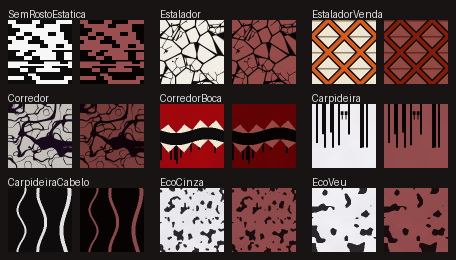
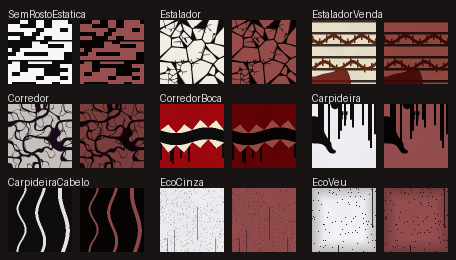
fix: Eco de fantasma claro (não malhado) e venda de atadura (não grade)
Review da prévia: o Eco lia como couro de vaca e a venda como toalha de
piquenique. Eco: base quase branca, salpico pequeno, escorrido fino, borda do
véu escura; teste de claridade (média alta, pouco cinza e pouca área escura)
no lugar do desvio de longe. Venda: faixas horizontais com frestas, dois
arames farpados ferrugem e sangue seco; teste de faixa horizontal. Um gerador
por textura, pra mexer numa não sortear as outras de novo.

diff --git a/scripts/gen_textures.py b/scripts/gen_textures.py
@@ -12,12 +12,12 @@ Saída (mod/42/media/textures/):
   Body/NOM_Estalador.png         256  porcelana quase branca, rachaduras grossas pretas
   Body/NOM_Corredor.png          256  cinza-cinza clara, veias grossas roxo-pretas
   Body/NOM_Carpideira.png        256  muito pálida, escorridos de fuligem, fuligem nos olhos
-  NOM/NOM_EstaladorVenda.png     128  atadura branco-suja, arame ferrugem em X com contorno preto (óculos de esqui)
+  NOM/NOM_EstaladorVenda.png     128  atadura em faixas branco-sujas, dois arames farpados ferrugem, sangue seco (óculos de esqui)
   NOM/NOM_CorredorBoca.png       128  vermelho escuro, rasgo preto com dentes brancos (máscara cirúrgica)
   NOM/NOM_SemRostoEstatica.png   128  chiado de TV em blocos preto/branco e faixas rasgadas (balaclava inteira)
   NOM/NOM_CarpideiraCabelo.png   128  cabelo preto de piche com três mechas brancas (véu)
-  NOM/NOM_EcoCinza.png           256  quase branco com salpico escuro, no corpo todo (camada sem modelo)
-  NOM/NOM_EcoVeu.png             128  quase branco com salpico escuro (véu)
+  NOM/NOM_EcoCinza.png           256  quase branco, salpicos pequenos e escorridos finos de cinza (camada sem modelo)
+  NOM/NOM_EcoVeu.png             128  o mesmo, mais escuro nas bordas (véu)
 
 Efeitos de tela (sprint 0013), branco com alfa (a cor sai do desenho):
   NOM/ScreenFx/NOM_Grain1..4.png 256  grão de filme em blocos de 2 px, um quadro cada
@@ -120,7 +120,7 @@ def carpideira_skin(rng, size=256):
     y = np.linspace(0, 1, size, dtype=np.float32)[:, None]
     stop = 0.2 + 0.5 * blocks(rng, 1, 32, size)            # cada escorrido acaba numa altura
     k = streak[None, :] * (y < stop)
-    k = np.maximum(k, (fbm(rng, size, (3, 6), (0.7, 0.3)) > 0.74).astype(np.float32))
+    k = np.maximum(k, (fbm(rng, size, (3, 6), (0.7, 0.3)) > 0.8).astype(np.float32))   # onde esfregou
     # fuligem debaixo dos olhos: o rosto da pele de zumbi vanilla fica no alto e no meio
     # (M e F iguais, visto pelo layout: rosto em x 44–56%, olhos em x ~47% e ~53%,
     # y ~12%). Uma mancha por olho que escorre até ~24%.
@@ -132,15 +132,21 @@ def carpideira_skin(rng, size=256):
 
 
 def estalador_venda(rng, size=128):
-    # atadura branco-suja em faixas, arame ferrugem grosso em X com contorno preto
+    # atadura: faixas horizontais branco-sujas com frestas escuras entre elas, dois
+    # arames ferrugem-escuros enrolados de lado a lado (linha ondulada com farpas) e uma
+    # mancha de sangue seco. Nada de grade em diagonal (lia como toalha de piquenique).
     y, x = np.mgrid[0:size, 0:size].astype(np.float32)
-    rgb = color((238, 230, 210), np.ones((size, size), np.float32))
-    rgb = mix(rgb, (150, 132, 104), ((y % 32) < 3).astype(np.float32))  # dobra da atadura
-    d1 = np.abs((x + y) % 64 - 32)                       # um X grande a cada 64 px
-    d2 = np.abs((x - y + size) % 64 - 32)
-    d = np.minimum(d1, d2)
-    rgb = mix(rgb, INK, (d < 10).astype(np.float32))     # contorno
-    return mix(rgb, (214, 92, 24), (d < 6).astype(np.float32))  # ferrugem viva
+    rgb = color((236, 228, 206), 0.94 + 0.06 * fbm(rng, size))
+    rgb = mix(rgb, (58, 44, 34), ((y % 24) < 5).astype(np.float32))      # fresta entre faixas
+    stain = (fbm(rng, size, (3, 6), (0.7, 0.3)) > 0.76).astype(np.float32)   # uma mancha só
+    rgb = mix(rgb, (104, 22, 18), stain * 0.9)                           # sangue seco
+    wire = np.zeros((size, size), np.float32)
+    for row, phase in ((38, 0.0), (90, 2.0)):
+        wy = row + 7 * np.sin(x / 9.0 + phase)                           # o arame enrolando
+        wire = np.maximum(wire, (np.abs(y - wy) < 3.5).astype(np.float32))
+        barb = ((x + 4 * phase) % 14 < 2.5) & (np.abs(y - wy) < 8)       # farpas
+        wire = np.maximum(wire, barb.astype(np.float32))
+    return mix(rgb, (92, 40, 16), wire)                                  # ferrugem escura
 
 
 def corredor_boca(rng, size=128):
@@ -187,19 +193,28 @@ def carpideira_cabelo(rng, size=128):
     return mix(rgb, (226, 226, 226), k)
 
 
-def eco_ash(rng, size, base):
-    # quase branco, salpico escuro em manchas: gente feita de fumaça e cinza
-    rgb = color(base, 0.95 + 0.05 * fbm(rng, size))
-    speck = (fbm(rng, size, (size // 16, size // 8), (0.7, 0.3)) > 0.66).astype(np.float32)
-    return mix(rgb, (40, 40, 44), speck)
+# O Eco fica fora da regra das formas grandes: lê por ser muito mais claro que qualquer
+# outro zumbi. Mancha grande preta no corpo todo virou couro de vaca (prévia da 0014).
+def eco_ash(rng, size, base, edge):
+    # quase branco; salpicos pequenos de cinza escura, esparsos, e poucos escorridos
+    # finos na vertical (fumaça subindo, cinza escorrendo); edge escurece as bordas
+    y, x = np.mgrid[0:size, 0:size].astype(np.float32) / size
+    border = np.clip(1 - np.minimum(np.minimum(x, 1 - x), np.minimum(y, 1 - y)) / 0.2, 0, 1)
+    rgb = color(base, (0.96 + 0.04 * fbm(rng, size)) * (1 - edge * border))
+    speck = np.kron((rng.random((size // 2, size // 2)) > 0.975).astype(np.float32), np.ones((2, 2), np.float32))
+    cols = np.repeat(rng.random(size // 2) > 0.96, 2)                    # escorridos de 2 px
+    top, length = np.repeat(rng.random(size // 2), 2), np.repeat(0.2 + 0.4 * rng.random(size // 2), 2)
+    drip = cols[None, :] & (y > top[None, :]) & (y < (top + length)[None, :])
+    k = np.maximum(speck, drip.astype(np.float32))
+    return mix(rgb, (52, 50, 54), k)
 
 
 def eco_cinza(rng, size=256):
-    return eco_ash(rng, size, (238, 238, 242))
+    return eco_ash(rng, size, (240, 240, 244), 0.0)
 
 
 def eco_veu(rng, size=128):
-    return eco_ash(rng, size, (244, 244, 248))
+    return eco_ash(rng, size, (246, 246, 250), 0.22)                     # borda do véu mais escura
 
 
 def screen_grain(rng, size=256):
@@ -225,17 +240,19 @@ def screen_lines(rng, w=512, h=256):
 
 
 def main():
-    rng = np.random.default_rng(SEED)
-    save(estalador_skin(rng), "Body/NOM_Estalador.png")
-    save(corredor_skin(rng), "Body/NOM_Corredor.png")
-    save(carpideira_skin(rng), "Body/NOM_Carpideira.png")
-    save(estalador_venda(rng), "NOM/NOM_EstaladorVenda.png")
-    save(corredor_boca(rng), "NOM/NOM_CorredorBoca.png")
-    save(semrosto_estatica(rng), "NOM/NOM_SemRostoEstatica.png")
-    save(carpideira_cabelo(rng), "NOM/NOM_CarpideiraCabelo.png")
+    # um gerador por textura: mexer no desenho de uma não sorteia as outras de novo
+    def rng(i):
+        return np.random.default_rng((SEED, i))
+    save(estalador_skin(rng(1)), "Body/NOM_Estalador.png")
+    save(corredor_skin(rng(2)), "Body/NOM_Corredor.png")
+    save(carpideira_skin(rng(3)), "Body/NOM_Carpideira.png")
+    save(estalador_venda(rng(4)), "NOM/NOM_EstaladorVenda.png")
+    save(corredor_boca(rng(5)), "NOM/NOM_CorredorBoca.png")
+    save(semrosto_estatica(rng(6)), "NOM/NOM_SemRostoEstatica.png")
+    save(carpideira_cabelo(rng(7)), "NOM/NOM_CarpideiraCabelo.png")
     # camada no corpo todo, como o Gown_Hospital vanilla (RGBA): opaca, cobre a pele
-    save(eco_cinza(rng), "NOM/NOM_EcoCinza.png", alpha=np.ones((256, 256), np.float32))
-    save(eco_veu(rng), "NOM/NOM_EcoVeu.png")
+    save(eco_cinza(rng(8)), "NOM/NOM_EcoCinza.png", alpha=np.ones((256, 256), np.float32))
+    save(eco_veu(rng(9)), "NOM/NOM_EcoVeu.png")
     # efeitos de tela: gerador próprio, pra não mudar as texturas acima
     srng = np.random.default_rng(SEED + 13)
     for i in range(1, 5):

diff --git a/tests/test_look_contrast.py b/tests/test_look_contrast.py
@@ -21,18 +21,30 @@ from PIL import Image
 TEX = os.path.join(os.path.dirname(__file__), "..", "mod", "42", "media", "textures")
 
 # nome → (std mínimo, mid máximo, far mínimo). O Sem-rosto é o mais apertado (é o
-# caso da lã); onde a cor saturada é o desenho (ferrugem, vermelho), mid folga.
+# caso da lã); a boca folga no mid (o vermelho saturado é o desenho). A venda era
+# laranja vivo (mid 0,45); virou atadura com arame ferrugem-escuro, sem cinza médio.
 LIMITS = {
     "NOM/NOM_SemRostoEstatica.png": (0.40, 0.08, 0.20),
     "Body/NOM_Estalador.png": (0.25, 0.15, 0.10),
-    "NOM/NOM_EstaladorVenda.png": (0.25, 0.45, 0.10),
+    "NOM/NOM_EstaladorVenda.png": (0.25, 0.15, 0.10),
     "Body/NOM_Corredor.png": (0.25, 0.15, 0.10),
     "NOM/NOM_CorredorBoca.png": (0.20, 0.30, 0.10),
     "Body/NOM_Carpideira.png": (0.25, 0.15, 0.10),
     "NOM/NOM_CarpideiraCabelo.png": (0.20, 0.10, 0.08),
-    "NOM/NOM_EcoCinza.png": (0.20, 0.15, 0.08),
-    "NOM/NOM_EcoVeu.png": (0.20, 0.15, 0.08),
 }
+
+# O Eco fica fora da regra das formas grandes: ele lê por ser muito mais claro que
+# qualquer outro zumbi, não pelo desenho. Mancha grande preta e branca no corpo todo
+# vira couro de vaca (prévia da 0014). Então: nome → (média mínima, mid máximo,
+# fração escura máxima, L < 0,3): fantasma claro com poucos salpicos.
+PALE = {
+    "NOM/NOM_EcoCinza.png": (0.82, 0.12, 0.08),
+    "NOM/NOM_EcoVeu.png": (0.78, 0.15, 0.12),   # escurece pras bordas do véu
+}
+
+# Atadura: faixas horizontais. A luminância tem que variar muito mais de linha pra
+# linha do que de coluna pra coluna (uma grade em diagonal varia igual nos dois).
+HORIZONTAL = {"NOM/NOM_EstaladorVenda.png"}
 
 
 def luminance(img):
@@ -52,7 +64,29 @@ def metrics(img):
     return std, mid, float(blocks.std())
 
 
+def check_pale(name, img):
+    lum, opaque = luminance(img)
+    vals = lum[opaque]
+    mean, mid, dark = float(vals.mean()), float(((vals > 0.3) & (vals < 0.7)).mean()), float((vals < 0.3).mean())
+    mmin, midmax, dmax = PALE[name]
+    errs = []
+    if mean < mmin:
+        errs.append("média %.3f < %.2f (não é claro o bastante)" % (mean, mmin))
+    if mid > midmax:
+        errs.append("mid %.3f > %.2f" % (mid, midmax))
+    if dark > dmax:
+        errs.append("escuro %.3f > %.2f (mancha demais: couro de vaca)" % (dark, dmax))
+    return errs, (mean, mid, dark)
+
+
+def horizontal_ratio(img):
+    lum, _ = luminance(img)
+    return float(lum.mean(axis=1).std() / max(lum.mean(axis=0).std(), 1e-6))
+
+
 def check(name, img):
+    if name in PALE:
+        return check_pale(name, img)
     std, mid, far = metrics(img)
     smin, mmax, fmin = LIMITS[name]
     errs = []
@@ -62,6 +96,8 @@ def check(name, img):
         errs.append("mid %.3f > %.2f" % (mid, mmax))
     if far < fmin:
         errs.append("far %.3f < %.2f (formas pequenas: vira lã de longe)" % (far, fmin))
+    if name in HORIZONTAL and horizontal_ratio(img) < 2:
+        errs.append("linhas/colunas %.2f < 2 (não são faixas horizontais)" % horizontal_ratio(img))
     return errs, (std, mid, far)
 
 
@@ -71,7 +107,7 @@ def test_every_look_texture_has_limits():
         for f in os.listdir(os.path.join(TEX, sub)):
             if f.startswith("NOM_") and f.endswith(".png"):
                 found.add(sub + "/" + f)
-    missing = found - set(LIMITS)
+    missing = found - set(LIMITS) - set(PALE)
     assert not missing, "textura de visual sem limite de contraste: %s" % sorted(missing)
 
 
@@ -87,18 +123,30 @@ def test_contrast_catches_wool():
     assert any("far" in e for e in errs), "sal e pimenta por pixel passou de longe"
 
 
+def test_contrast_catches_cow_and_lattice():
+    rng = np.random.default_rng(1)
+    cow = (np.kron(rng.random((8, 8)) > 0.6, np.ones((32, 32))) * -220 + 240).astype(np.uint8)
+    errs, _ = check("NOM/NOM_EcoCinza.png", Image.fromarray(cow, "L"))
+    assert errs, "couro de vaca passou como Eco"
+    y, x = np.mgrid[0:128, 0:128]
+    lattice = np.where(np.minimum(np.abs((x + y) % 64 - 32), np.abs((x - y + 128) % 64 - 32)) < 8, 20, 235)
+    errs, _ = check("NOM/NOM_EstaladorVenda.png", Image.fromarray(lattice.astype(np.uint8), "L"))
+    assert any("faixas" in e for e in errs), "grade em diagonal passou como atadura"
+
+
 def test_textures_contrast():
     bad = []
-    for name in sorted(LIMITS):
+    for name in sorted(LIMITS) + sorted(PALE):
         errs, m = check(name, Image.open(os.path.join(TEX, name)))
-        print("  %-30s std=%.3f mid=%.3f far=%.3f" % ((name,) + m))
+        fmt = "média=%.3f mid=%.3f escuro=%.3f" if name in PALE else "std=%.3f mid=%.3f far=%.3f"
+        print("  %-30s " % name + fmt % m)
         if errs:
             bad.append(name + ": " + "; ".join(errs))
     assert not bad, "\n  ".join(bad)
 
 
 def main():
-    tests = [test_every_look_texture_has_limits, test_contrast_catches_wool, test_textures_contrast]
+    tests = [test_every_look_texture_has_limits, test_contrast_catches_wool, test_contrast_catches_cow_and_lattice, test_textures_contrast]
     fail = 0
     for t in tests:
         try:

diff --git a/docs/sprints/sprint-0014-contraste-visual/README.md b/docs/sprints/sprint-0014-contraste-visual/README.md
@@ -11,9 +11,9 @@
 ## Objetivo
 
 Na névoa, de longe, cada monstro lê pelo que é: o Sem-rosto com a cabeça de TV fora do ar,
-o Estalador de porcelana trincada com um X laranja nos olhos, o Corredor cinza de veias
-pretas e boca vermelha rasgada, a Carpideira quase branca de cabelo preto, o Eco feito de
-fumaça e cinza. Mesmos modelos, itens e GUIDs da [sprint 0012](../sprint-0012-visual-variantes/README.md).
+o Estalador de porcelana trincada com uma atadura e arame farpado nos olhos, o Corredor cinza de veias
+pretas e boca vermelha rasgada, a Carpideira quase branca de cabelo preto, o Eco como o
+fantasma mais claro da névoa, coberto de cinza. Mesmos modelos, itens e GUIDs da [sprint 0012](../sprint-0012-visual-variantes/README.md).
 
 Visto no jogo pelo Johan (05/10/2026, print): o caminho da 0012 **funciona** (a peça do
 Sem-rosto renderizou no zumbi com a textura do mod), mas o chiado lia como uma balaclava de
@@ -26,11 +26,14 @@ modelos vanilla, pra todos os visuais.
 - [x] As nove texturas dos visuais com contraste cheio e formas grandes, medido —
       `tests/test_look_contrast.py :: test_textures_contrast` (por textura: desvio da
       luminância, fração de cinza médio 0,3–0,7 e desvio depois da média em blocos de 1/8 da
-      largura; Sem-rosto: std 0,459, cinza médio 0,000, de longe 0,270, contra 0,155 / 0,739 /
-      0,011 da 0012).
+      largura; Sem-rosto: std 0,455, cinza médio 0,000, de longe 0,255, contra 0,155 / 0,739 /
+      0,011 da 0012). O Eco tem teste próprio (média ≥ 0,82/0,78, cinza médio e área escura
+      baixos), fora da regra das formas grandes; a venda tem que ser faixa horizontal.
 - [x] Textura que voltar a ser "lã" reprova — `test_contrast_catches_wool` (o ruído fino da
       0012 e o sal e pimenta por pixel, com std alto, reprovam no desvio de longe);
-      `test_every_look_texture_has_limits` (textura nova sem limite reprova).
+      `test_every_look_texture_has_limits` (textura nova sem limite reprova);
+      `test_contrast_catches_cow_and_lattice` (mancha grande no Eco e grade em diagonal na
+      venda reprovam).
 - [x] Mesmos modelos, itens, GUIDs, tamanhos e caminhos; `NOM_VariantLook` intocado —
       `git diff main -- mod/42/media` só tem os 9 PNG; `look_assets_items_resolve` (tamanho
       da vanilla), `look_assets_skins`, `look_assets_guids_unique`.
@@ -46,7 +49,7 @@ modelos vanilla, pra todos os visuais.
 - [ ] O padrão não estica nem some nos modelos (balaclava, máscara, óculos, véu) — **falta o
       jogo:** passos 2–4.
 
-`./run-tests.sh`: `total=503 passou=503 falhou=0` (Lua), `contraste total=3 passou=3 falhou=0`
+`./run-tests.sh`: `total=503 passou=503 falhou=0` (Lua), `contraste total=4 passou=4 falhou=0`
 e `build total=25 passou=25 falhou=0`.
 
 ![prévia](preview.png)
@@ -67,7 +70,8 @@ modelo; recarregar o save pode bastar, reabrir é garantido). Console em
    blocos (registrar o zoom em que some). **Se** os blocos aparecerem só na nuca: o UV da
    balaclava põe o rosto noutra região (registrar; dá pra posicionar o desenho).
 3. **Estalador.** `NOM_Debug.variant("estalador")` noutro. **Esperado:** pele quase branca
-   com rachaduras pretas grossas e um X laranja com contorno preto nos olhos.
+   com rachaduras pretas grossas e, nos olhos, uma atadura branca em faixas com arame
+   farpado escuro.
 4. **Corredor e Carpideira.** `NOM_Debug.variant("corredor")`: pele cinza clara com veias
    pretas, boca vermelha com uma faixa preta e dentes brancos.
    `NOM_Debug.variant("carpideira")`: corpo quase branco com escorridos pretos, manchas
@@ -75,7 +79,8 @@ modelo; recarregar o save pode bastar, reabrir é garantido). Console em
    manchas dos olhos aparecerem fora do rosto: o rosto da pele não fica onde o layout
    sugere (registrar onde aparecem).
 5. **Eco e vermelha.** `NOM_Debug.night(true)`, noite, `NOM_Debug.spawnEco()`: um vulto
-   quase branco com salpico escuro. Depois `NOM_Debug.redFog(true)` com zumbis à vista:
+   quase branco, o mais claro da cena, com salpicos pequenos e escorridos finos; não pode
+   parecer malhado. Depois `NOM_Debug.redFog(true)` com zumbis à vista:
    **Esperado:** cada tipo ainda se distingue sob o vermelho. Comparar com
    `NOM_Debug.status()` (`visuais=N`).
 
@@ -87,12 +92,20 @@ modelo; recarregar o save pode bastar, reabrir é garantido). Console em
   gerador, prévia em 64 px com cópia sob névoa, ajuste da venda, da boca e do cabelo pela
   prévia (padrão de período menor que 1/8 da largura vira cor lisa de longe).
 - **04/10/2026** — Docs: art-direction, ADR-012, CREDITS, READMEs. Em teste.
+- **04/10/2026** — Review do coordenador na prévia: Eco lia como couro de vaca, venda como
+  toalha de piquenique. Eco virou fantasma claro (salpico pequeno, escorrido fino, borda do
+  véu escura) com teste de claridade no lugar do desvio de longe; venda virou atadura em
+  faixas com dois arames farpados e sangue seco, com teste de faixa horizontal. Um gerador
+  por textura (`default_rng((SEED, i))`): mexer numa não sorteia as outras de novo.
 
 ## Aprendizados
 
 - **Padrão repetido fino some de longe igual a ruído.** Uma grade de período ≤ 1/8 da
   textura (a primeira venda e a primeira boca) tem desvio alto e lê como cor lisa no
   tamanho do jogo; a média em blocos de 1/8 pega isso, o desvio simples não.
+- **Contraste não basta: a forma tem que ser a coisa.** Mancha grande preta e branca no
+  corpo todo é vaca; X repetido é toalha. A métrica pega lã, não pega leitura errada: por
+  isso o Eco e a venda ganharam teste de forma (claridade, faixa horizontal).
 - **A textura vanilla da balaclava é um tricô uniforme**, sem região de rosto visível: não dá
   pra saber pelo layout onde fica a frente. O desenho tem que valer na peça inteira.
 - **A pele de zumbi vanilla tem o rosto no alto e no meio** (x 44–56%, olhos em y ~12%), o

diff --git a/docs/gdd/art-direction.md b/docs/gdd/art-direction.md
@@ -21,6 +21,14 @@
   que voltar a ser "lã"; `scripts/preview_textures.py` mostra cada uma a 64 px, normal e
   escurecida/avermelhada como na névoa
   ([prévia](../sprints/sprint-0014-contraste-visual/preview.png)).
+- **O Eco fica fora da regra das formas grandes.** Mancha grande preta e branca no corpo
+  todo leu como couro de vaca na prévia. O Eco lê por ser **muito mais claro** que qualquer
+  outro zumbi, não pelo desenho: base quase branca, salpico pequeno e esparso, escorrido
+  fino. O teste dele confere média de luminância alta, pouco cinza médio e pouca área
+  escura, no lugar do desvio de longe.
+- **Nada de grade em diagonal.** A venda do Estalador em X repetido leu como toalha de
+  piquenique; atadura é faixa horizontal. O teste da venda exige que a luminância varie
+  bem mais de linha pra linha do que de coluna pra coluna.
 - **Desenho que não depende do mapa UV:** rachadura, veia, chiado, fio, escorrido. Vale em
   qualquer ponto da textura, então a peça inteira vira o material e nada é copiado nem
   "decalcado" da textura vanilla (dela só se usa o tamanho). Única exceção: a fuligem nos
@@ -35,11 +43,11 @@
 
 | Monstro | Pele | Peça (modelo vanilla) | Cor que lê de longe |
 |---|---|---|---|
-| Estalador | porcelana quase branca em placas grandes, rachaduras grossas pretas | venda de atadura branco-suja com arame ferrugem viva em X, contornado de preto (óculos de esqui, `Glasses_SkiGoggles`) | branco trincado + X laranja nos olhos |
+| Estalador | porcelana quase branca em placas grandes, rachaduras grossas pretas | venda de atadura: faixas horizontais branco-sujas com frestas escuras, dois arames farpados ferrugem-escuros enrolados de lado a lado e uma mancha de sangue seco (óculos de esqui, `Glasses_SkiGoggles`) | branco trincado + atadura com arame nos olhos |
 | Corredor | cinza de cinza clara, veias grossas roxo-pretas | boca rasgada: vermelho escuro saturado, um rasgo preto de lado a lado com dentes brancos grandes e escorridos pretos (máscara cirúrgica, `Hat_SurgicalMask`) | cinza com veias + boca vermelha e preta |
 | Sem-rosto | a do zumbi | chiado de TV em blocos preto/branco, faixas de varredura e imagem rasgada na horizontal, quase sem cinza, a cabeça inteira (balaclava inteira, `Hat_BalaclavaFull`) | cabeça de TV fora do ar |
 | Carpideira | muito pálida, escorridos grossos de fuligem de cima pra baixo, fuligem debaixo dos olhos | cabelo preto de piche com três mechas brancas, caindo no rosto (véu de noiva, `Hat_WeddingVeil`) | cabeça preta caída sobre corpo quase branco |
-| Eco | coberta: quase branca com salpico escuro no corpo todo | véu quase branco com salpico escuro (véu de noiva) | gente de fumaça e cinza |
+| Eco | coberta: quase branca, salpicos pequenos e esparsos de cinza e poucos escorridos finos na vertical | véu do mesmo jeito, mais escuro só nas bordas (véu de noiva) | o mais claro da névoa: fantasma coberto de cinza |
 
 **Por quê, um por um:**
 

diff --git a/CREDITS.md b/CREDITS.md
@@ -62,12 +62,12 @@ Direção de arte em [docs/gdd/art-direction.md](docs/gdd/art-direction.md).
 | `mod/42/media/textures/Body/NOM_Estalador.png` | 256×256 | pele do Estalador: porcelana quase branca, rachaduras grossas pretas |
 | `mod/42/media/textures/Body/NOM_Corredor.png` | 256×256 | pele do Corredor: cinza clara, veias grossas quase pretas |
 | `mod/42/media/textures/Body/NOM_Carpideira.png` | 256×256 | pele da Carpideira: muito pálida, escorridos de fuligem, fuligem nos olhos |
-| `mod/42/media/textures/NOM/NOM_EstaladorVenda.png` | 128×128 | venda do Estalador: atadura branco-suja e arame ferrugem em X |
+| `mod/42/media/textures/NOM/NOM_EstaladorVenda.png` | 128×128 | venda do Estalador: atadura em faixas, arame farpado ferrugem, sangue seco |
 | `mod/42/media/textures/NOM/NOM_CorredorBoca.png` | 128×128 | boca rasgada do Corredor: vermelho escuro, rasgo preto, dentes brancos |
 | `mod/42/media/textures/NOM/NOM_SemRostoEstatica.png` | 128×128 | rosto do Sem-rosto: chiado de TV em blocos preto/branco, faixas rasgadas |
 | `mod/42/media/textures/NOM/NOM_CarpideiraCabelo.png` | 128×128 | cabelo preto da Carpideira com mechas brancas, caindo no rosto |
-| `mod/42/media/textures/NOM/NOM_EcoCinza.png` | 256×256 | quase branco com salpico escuro no corpo todo do Eco |
-| `mod/42/media/textures/NOM/NOM_EcoVeu.png` | 128×128 | véu quase branco com salpico escuro do Eco |
+| `mod/42/media/textures/NOM/NOM_EcoCinza.png` | 256×256 | quase branco com salpicos pequenos e escorridos finos de cinza, no corpo todo do Eco |
+| `mod/42/media/textures/NOM/NOM_EcoVeu.png` | 128×128 | véu quase branco do Eco, salpicado, mais escuro nas bordas |
 | `mod/42/media/textures/NOM/ScreenFx/NOM_Grain1.png` … `NOM_Grain4.png` (`mod/42/media/textures/NOM/ScreenFx/NOM_Grain2.png`, `mod/42/media/textures/NOM/ScreenFx/NOM_Grain3.png`, `mod/42/media/textures/NOM/ScreenFx/NOM_Grain4.png`) | 256×256 | grão de filme da névoa, quatro quadros de ruído (efeitos de tela, sprint 0013) |
 | `mod/42/media/textures/NOM/ScreenFx/NOM_Vignette.png` | 512×512 | vinheta da tela: transparente no centro, opaca nas bordas |
 | `mod/42/media/textures/NOM/ScreenFx/NOM_Lines.png` | 512×256 | linhas horizontais de chiado (perto do Sem-rosto) |
